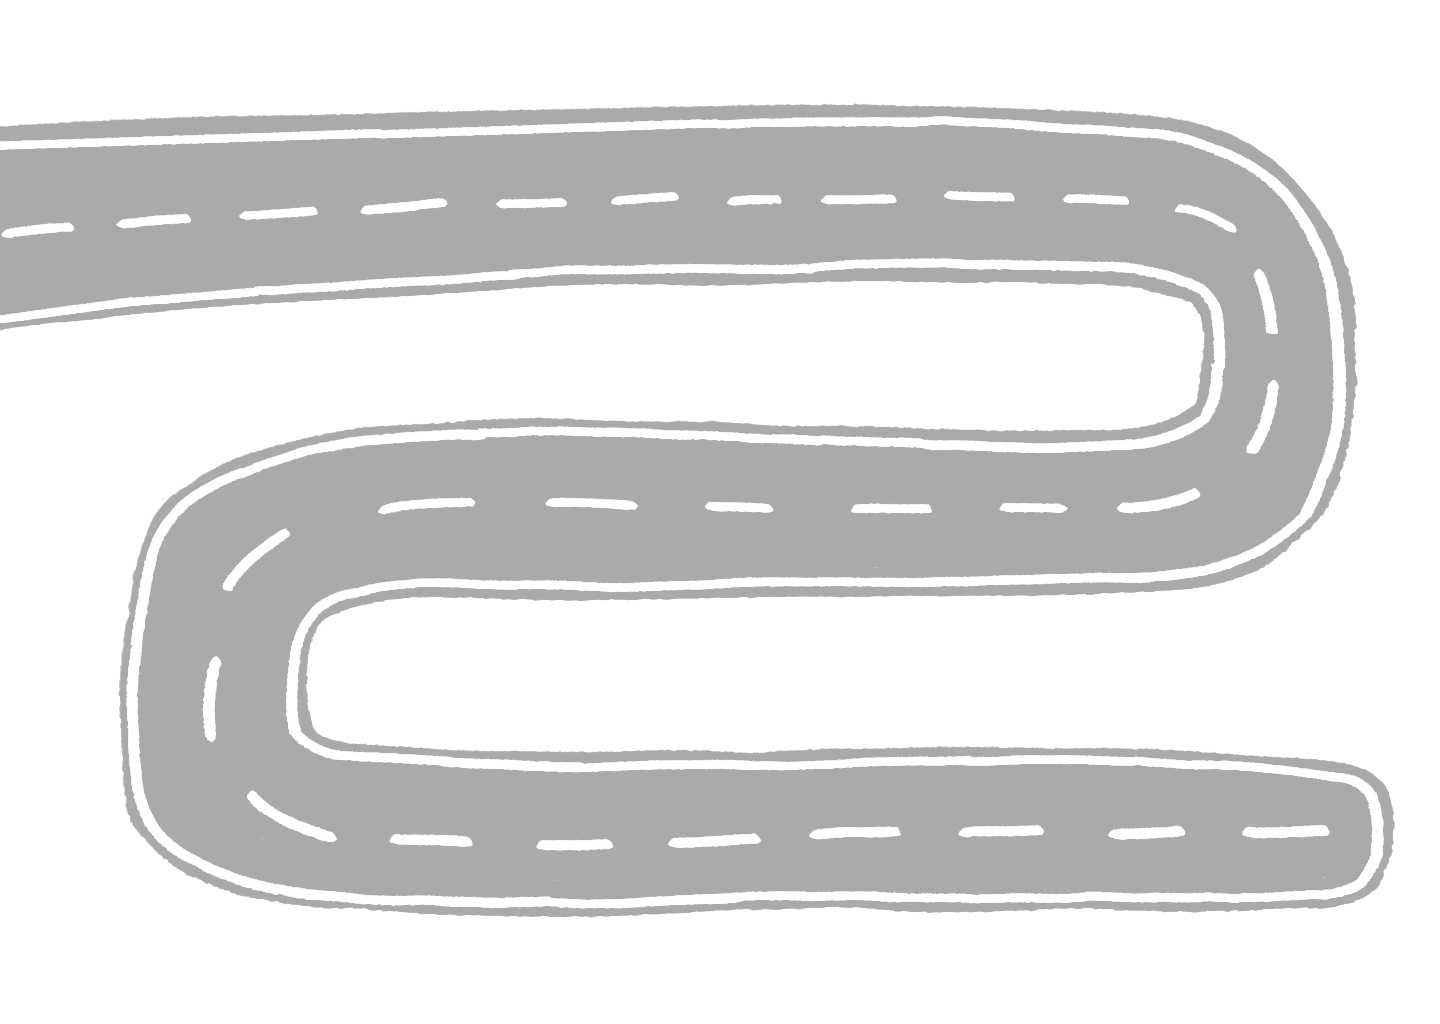
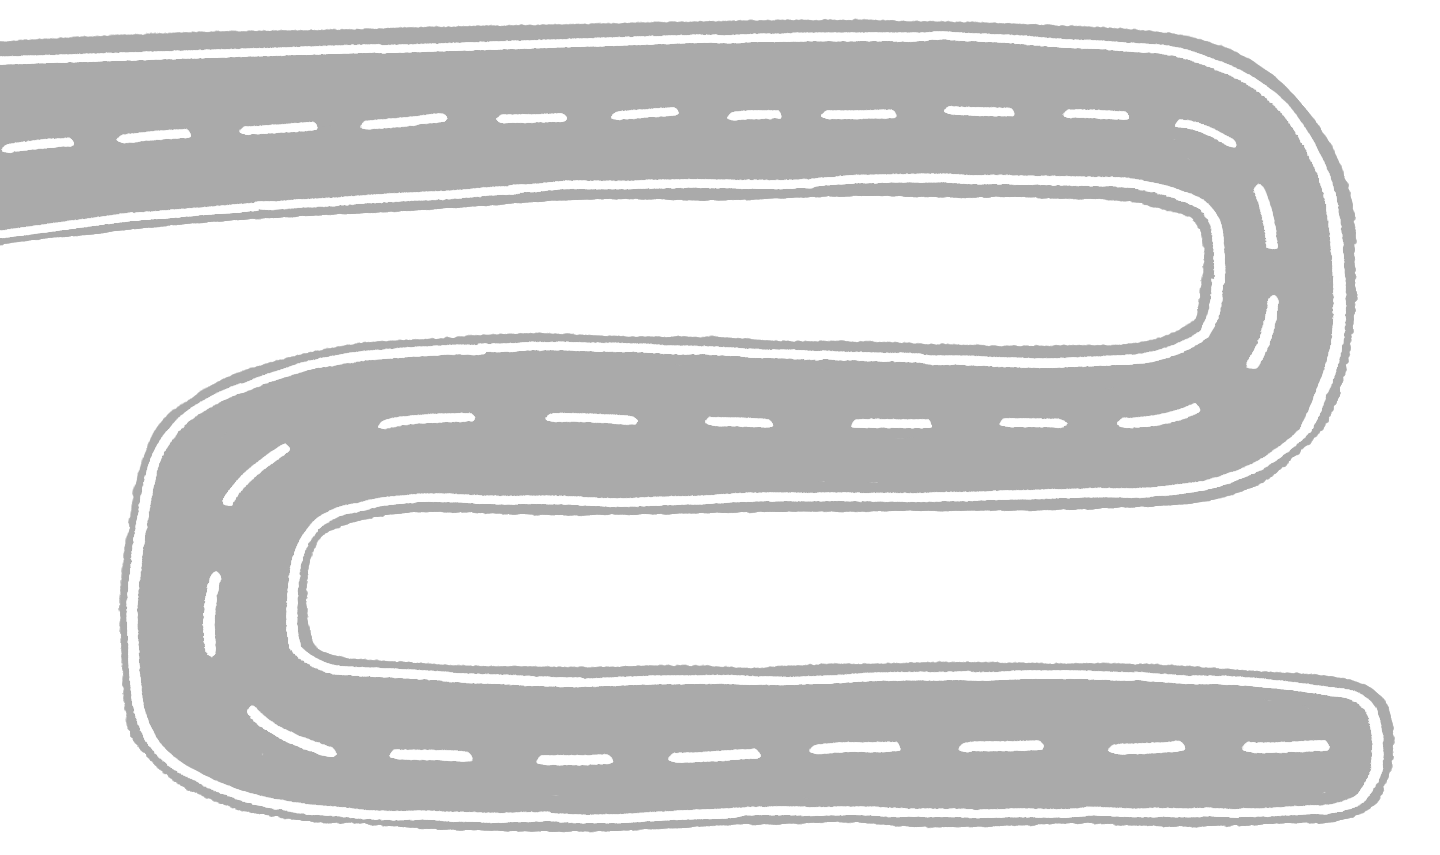
road

diff --git a/frontend/src/views/Goal.vue b/frontend/src/views/Goal.vue
@@ -1,29 +1,65 @@
-<script>
-import { useRouter} from 'vue-router';
+<script setup>
+import {ref,onBeforeUnmount} from 'vue';
+import {useRouter} from 'vue-router';
+
+const router = useRouter();
+
+function goBack() {
+  router.back() 
+}
 </script>
 
 <template>
-    <div class="page-wrapper-road">
-        <img src="../assets/images/plan/road.png" alt="目標路" class="road">
+  <div class="relative h-screen overflow-y-auto bg-gray-200">
+  <!--回前頁的箭頭-->
+    <img
+        src="../assets/images/plan/arrow.png"
+        class="back-arrow"
+        alt="Back"
+        @click="goBack"
+    />
+   <div class="viewport" >
+    
+    <div class="image-wrapper">
+
+        <img src="../assets/images/plan/road.png" alt="目標路" class="road" draggable="false" @dragstart.prevent >
 
     </div>
+  </div>
+  </div>
 
 </template>
-<style coped>
-.page-wrapper-road {
-  background-color: #E1E1E1;
-  min-height: 100vh;
+<style scoped>
+.back-arrow {
+  position: absolute;
+  top: 20px;
+  left: 20px;
+  width: 25px;
+  height:25px;
+  cursor: pointer;
+  z-index: 10;
+}
+.viewport {
   width: 100vw;
-  overflow:hidden;
+  height: 100vh;
+  overflow-y:auto;
   position: relative;
-  margin:0;
-  padding:0;
+  background-color: #E1E1E1; 
+  user-select: none; 
+}
+.image-wrapper{
+  width:100%;
+  height:1000px;
+  position: absolute;
+  top: 0;
+  left: 0;
+  will-change: transform;
 }
 
 .road {
   width: 100%;
   height: 100%;
-  object-fit: cover; /* 保持比例，覆蓋整個容器 */
+  object-fit: contain; /* 保持比例，覆蓋整個容器 */
   display: block;
 }
 

diff --git a/frontend/src/views/Planning.vue b/frontend/src/views/Planning.vue
@@ -55,7 +55,7 @@ const handleCheck = (item) => {
   if (!item.checked) {
     item.checked = true;
     setTimeout(() =>{
-    router.push({ name: 'InsideIsland', query: { islandId: item.islandId } })
+    router.push({ name: 'InsideIsland', query: { islandId: item.id } })
   },300)
   } else {
     // 如果取消勾選，就只是更新狀態，不跳頁
